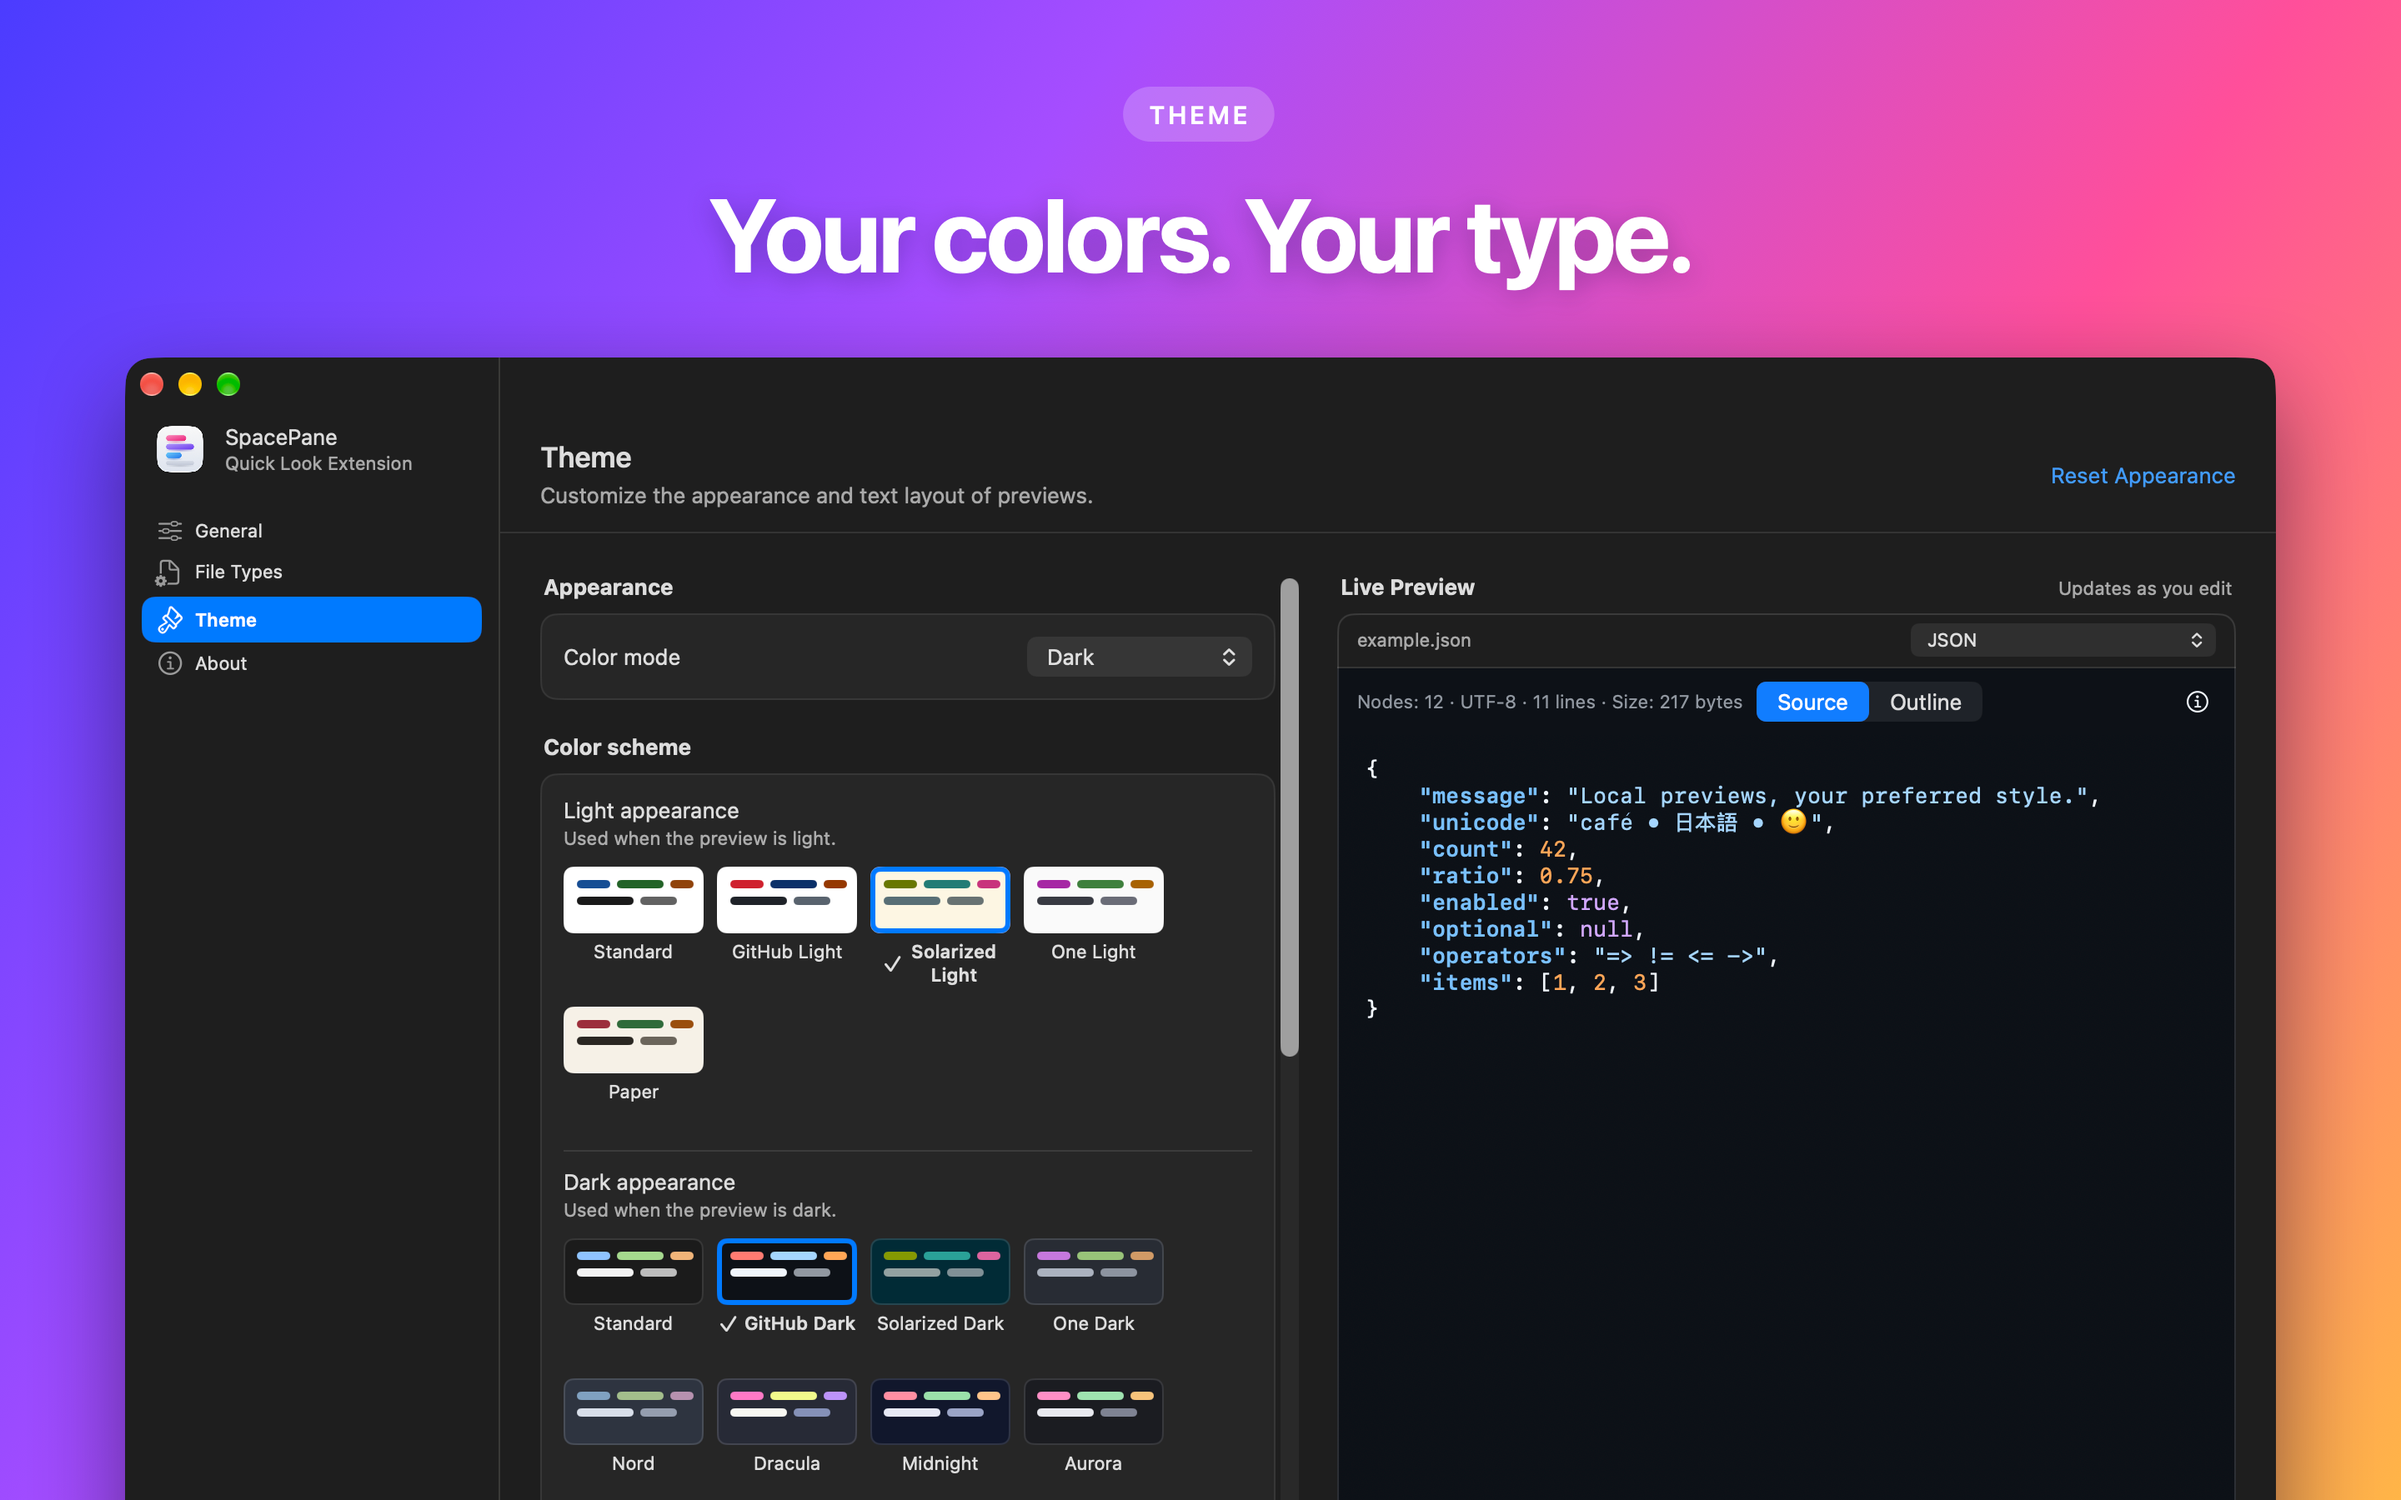
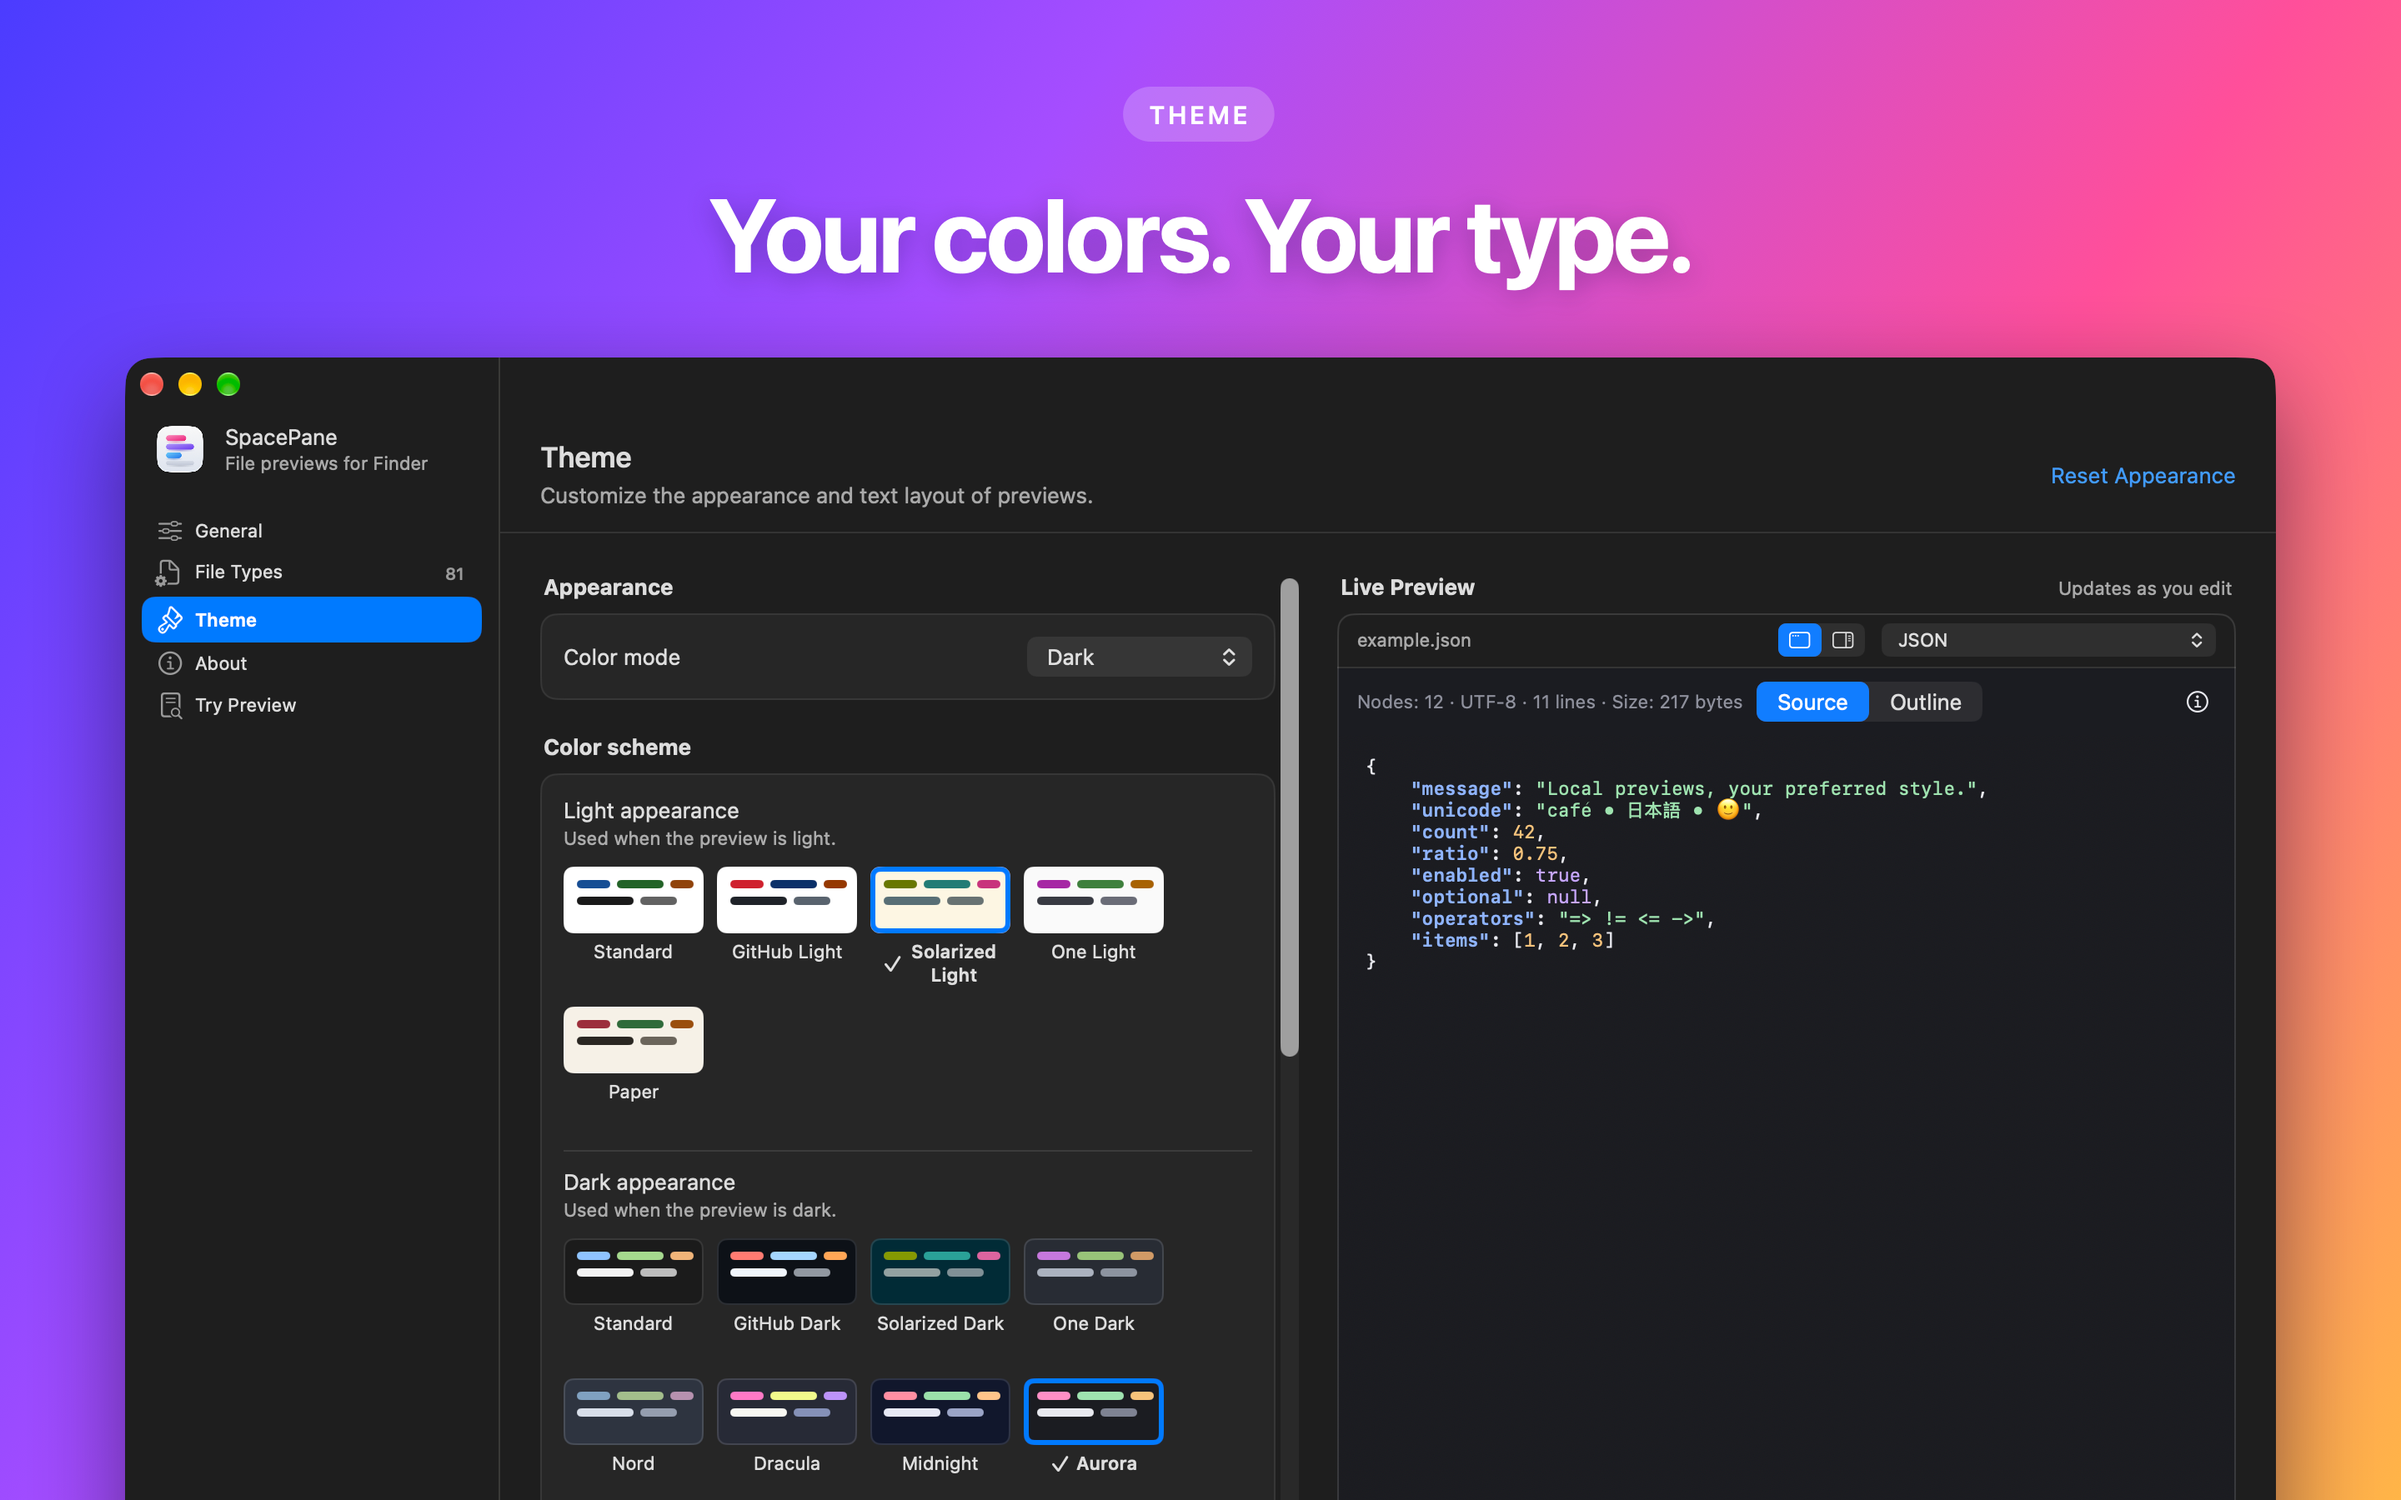
Record build 9: UI polish integration, fixes, validation, screenshots and upload

diff --git a/docs/release/store-listing/screenshots.md b/docs/release/store-listing/screenshots.md
@@ -8,7 +8,7 @@ another session under `.build/store-screenshots/website-theater/`; it was not ch
 
 **Amended 2026-10-17 ([rejection-risk review](../../reviews/2026-10-17-app-store-rejection-risk.md), finding 5).** Six screenshots are live in App Store Connect for 1.1.0 (build 5), submitted that day. Two of them show what build 5 no longer has: the hero screenshot (first in the store order, from `01-press-space.png`) shows a Filter field in the Outline view and `winch-gear.step` in Finder's file list, and the SQLite screenshot (third in the store order, from `04-database.png`) shows a Filter field. Build 5 ships no typed filter in Finder previews (PR 9, merged 2026-10-15) and no STEP support. Both must be recaptured from the owner's signed build 5 before the next submission, with no Filter field and no CAD file visible in Finder; replacing screenshots needs the version out of review. The hero screenshot was recaptured at 18:09 on 2026-10-17 from the installed TestFlight-signed build 5 (`/Applications/SpacePane.app`, 1.1.0 (5)) on a Retina display mode, with the same scripts (`capture.sh` reduced to scene 1, then `compose_store_screenshot.swift`); the demo folder was generated without `winch-gear.step`, and `settings.json` carries the same per-file Xcode binding as the notebook and the database so the panel button reads "Open with Xcode". The new `01-press-space.png` (2880×1800, no alpha) shows the Outline view with no Filter field and a Finder list without a CAD file; it replaces the previous file here and is the one to upload. Later the same day (18:27), with the development-signed 1.1.0 (6) archive installed in `/Applications` (the TestFlight build 5 removed by the owner; see [uti-resolution-2026-10-17](../../validation/uti-resolution-2026-10-17.md), "Observed after installing build 6"), both `01-press-space.png` and `04-database.png` were retaken on the Retina mode: the hero again from build 6, and the SQLite scene for the first time since build 5, because `.sqlite` now resolves to `org.sqlite.sqlite` and Finder routes it to SpacePane. The SQLite image shows the Table view with Source, Summary and Table modes and no Filter field. Both are 2880×1800 without alpha and are the files to upload; the earlier 1.0 captures of these two scenes are replaced. The Theme screenshot shows 13 tiles (Standard appears in both the light and dark lists) against "12 color schemes"; twelve distinct schemes exist, so a caption or recapture avoids the question but none is required.
 
-**Amended 2026-10-24 (decision 031).** App Store Connect held six screenshots for 1.1.0: 01, 05, 04, 03, 02 and 09 (order as uploaded). `09-theme.png` showed the companion's sidebar with four pages; build 8 has five (Try Preview is always offered), so it was removed before the resubmission and five remain. Retake it from build 8 in a Retina display mode (the capture on 2026-10-24 came out at 1x because the display was not in one) and upload it with the next version. The other five show Finder Quick Look panels, which build 8 does not change.
+**Amended 2026-10-24 (decision 031).** App Store Connect held six screenshots for 1.1.0: 01, 05, 04, 03, 02 and 09 (order as uploaded). `09-theme.png` showed the companion's sidebar with four pages; build 8 has five (Try Preview is always offered), so it was removed before the resubmission and five remain. Retake it from build 8 in a Retina display mode (the capture on 2026-10-24 came out at 1x because the display was not in one) and upload it with the next version. Retaken the same day from build 9 after the owner switched to a Retina mode: `08-file-types.png` and `09-theme.png` now show the five-page sidebar and 81 file types (window captures 2580×1640, composed by `.build/store-screenshots/shots compose` with the colors and headlines of `compose.sh`). The other five show Finder Quick Look panels, which build 8 does not change.
 
 
 The sections under "Earlier plan" were written on 2026-10-10 and are kept for their rules; where they differ

diff --git a/CHANGELOGS.md b/CHANGELOGS.md
@@ -2,6 +2,16 @@
 
 Record material changes under dated entries, newest first. Distinguish research, implementation, and validation. Dates use Europe/Istanbul.
 
+## 2026-10-24 — Build 9: the UI polish on top of build 8 (implementation, validation and release)
+
+Owner request: "I want changes in the ui-ux polish in this newest build. Test it locally, and generate a new build and change the current submission to that build."
+
+- Integration: branch `build9-ui-polish` from `release-build8`; the polish commit `685dbf4` cherry-picked as `c22ef03`. Conflicts: `CompanionShell.swift` (kept build 8's Developer Mode removal and the polish's `overlappingProvidersByFormat` argument to Try Preview) and this file (the polish's 2026-10-20 entry restored below the build 8 entries). No Developer Mode, Open CASCADE or CAD-importer text came back (grep).
+- Independent review of the polish (read-only agent) found one blocker and smaller items. Fixed: `NativeTablePreviewView` kept selection, sort and scroll when a table changed its partial-read state, which breaks `tablesThatDifferOnlyByOriginOrPartialReadAreNotEqualSoTheViewRefreshes`; a change of partial-read state now counts as a different table, and a new test pins that a genuine live reload keeps the selection of rows that remain. The endpoint layout was chosen by comparing column titles with localized strings; `SafeTable.Layout.endpoints`, set by `OpenAPIEndpointList`, now decides it (tests updated and added). The Open CASCADE keys left the localization additions inputs (`release-open-source-offer.json` deleted, one key out of `release-bundled-notices.json`). The description gains "Right-click a table, an outline or a listing to copy a value, a row, every row or a path" (3,888 characters), so the polish's copy commands are named for users (decision 031). Left as recorded follow-ups: the gutter tooltip does not mention that double-click opens Go to Line (the command is also in the context menu and ⌘L is listed), and a force cast in `NativeOutlinePreviewView` predates the polish.
+- Validation (Mac, Xcode 27.0, Swift 6.4): `--check-static` (25 passed, 1 skipped), `--check`, `--check-compiler`, `--test`: 4,552 tests in 513 suites with the 2 known issues, 74 serial tests and every companion check pass. `--archive`: "Release archive checks passed for SpacePane.app 1.1.0 (9)" including the hidden-feature text scan. Observed in the launched build 9 on this Mac (Retina): the File menu has "Open File…", the View menu and sidebar list the five pages, General has no Developer section, Try Preview shows its drop area and Open File button, About shows "Version 1.1.0 (9)" and only the color-scheme acknowledgement. Quick Look on this Mac still uses the installed TestFlight build 8 (`/Applications/SpacePane.app`), so build 9's extension has not been observed in Finder; it reaches the internal TestFlight group automatically.
+- Screenshots: `08-file-types.png` and `09-theme.png` recomposed from Retina captures of build 9.
+- Release: `--export` (Apple Distribution) and the keyless upload through the signed-in Xcode account: "Upload succeeded" at 10:35. In App Store Connect the build 8 submission was cancelled (the only way to change a build in review), the version became "Developer Rejected", and the build 9 description and notes were saved. Selecting build 9, uploading the two screenshots and submitting follow in the next entry or the release record.
+
 ## 2026-10-24 — Build 8 uploaded and resubmitted (release)
 
 Owner instruction after merging pull request #17: "The rest is yours."

diff --git a/docs/release/version-1.1.0.md b/docs/release/version-1.1.0.md
@@ -26,7 +26,8 @@ earlier 1.1.0 submissions as Removed and no 1.0.0 submission at all.
 | 2026-10-17 18:39 | 1.1.0 | 6 (merged tree of `build6-integration-2026-10-17`, archived 18:1x, exported with Apple Distribution signing) | Uploaded with `--upload` on the owner's instruction; TestFlight processing; not yet selected for the version, not submitted | corrected block (build 6) | unchanged until the owner edits it |
 | 2026-10-22 20:51 | 1.1.0 | 7 (`fix/settings-recovery-file-types-search`, archived 20:47, exported with Apple Distribution signing; it includes the unreviewed UI polish commit `685dbf4`, kept on the local branch `ui-ux-waves-2026-10-20`) | Uploaded with `--upload` on the owner's instruction; internal TestFlight only; never submitted | corrected block (build 7) | unchanged until the owner edits it |
 | 2026-10-17 19:14 (read 2026-10-24) | 1.1.0 | 6 | **Rejected 2026-10-23 19:06, Guideline 5.6 Developer Code of Conduct**: "features that appear to have been intentionally hidden during the review process". The submission had replaced build 5 (Removed). Causes found: the Developer Mode switch, the store description missing the Safety Lens 2 and 3 features, and leftover CAD text; see [decision 031](../decisions/031-nothing-hidden.md) | build 6 block, with the Developer Mode paragraph | Manual |
-| 2026-10-24 10:13 | 1.1.0 | 8 (merged `main` at `8b8f2b0`, archived and exported 2026-10-24, uploaded 10:06 through the signed-in Xcode account) | **Waiting for Review**, resubmitted in the same submission as build 6 on the owner's instruction ("The rest is yours"), after replacing the description with the 3,797-character text, pasting the build 8 notes, removing the Theme screenshot (it showed the four-page sidebar; five screenshots remain) and replying to App Review at 10:11 with `docs/release/app-review-reply-2026-10-24.md` | build 8 block | Manual |
+| 2026-10-24 10:13 | 1.1.0 | 8 (merged `main` at `8b8f2b0`, archived and exported 2026-10-24, uploaded 10:06 through the signed-in Xcode account) | Waiting for Review from 10:13, then **cancelled by the developer at about 10:40** so that build 9 could replace it (owner: "change the current submission to that build"); it had been resubmitted in the same submission as build 6 on the owner's instruction ("The rest is yours"), after replacing the description with the 3,797-character text, pasting the build 8 notes, removing the Theme screenshot (it showed the four-page sidebar; five screenshots remain) and replying to App Review at 10:11 with `docs/release/app-review-reply-2026-10-24.md` | build 8 block | Manual |
+| 2026-10-24 | 1.1.0 | 9 (`build9-ui-polish`: build 8 plus the UI polish commit `685dbf4`, its table and endpoint-layout fixes and the copy-commands description line; archived, exported and uploaded 10:35 through the signed-in Xcode account) | Replaces build 8 in a new submission; the description (3,888 characters) and the build 9 notes were saved first | build 9 block | Manual |
 
 Also on the version page on 2026-10-17: sign-in required off, attachment `SpacePane-Review-Samples.zip`, six Mac
 screenshots, and the description of 1.0 ("That is 74 file types") rather than the 1.1.0 text below. Builds 1.0.0 (1)
